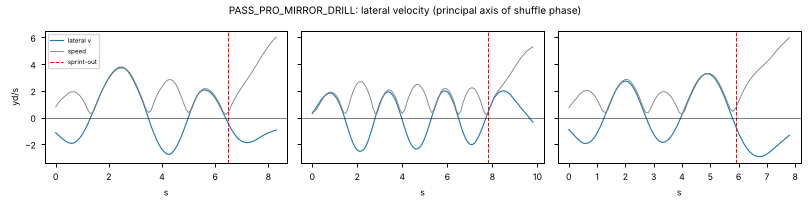
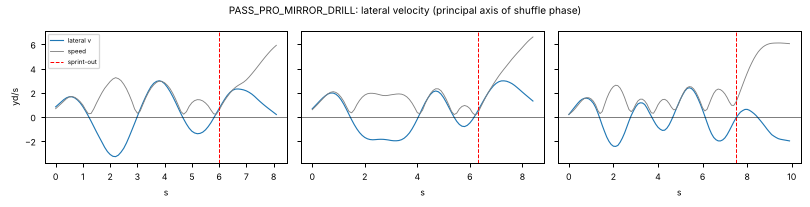
EDA: Combine drill coverage, kinematic quality, stopwatch validity, reliability
Claude-Session: https://claude.ai/code/session_01Fe4TxQWCxqSpLVc5WqLiae

diff --git a/scripts/eda/drill_quality.py b/scripts/eda/drill_quality.py
@@ -21,7 +21,6 @@ from pathlib import Path
 import numpy as np
 import pandas as pd
 import polars as pl
-from scipy.optimize import curve_fit
 from scipy.signal import find_peaks, savgol_filter
 
 ROOT = Path(__file__).resolve().parents[2]
@@ -598,11 +597,11 @@ def consistency_check(feat: pd.DataFrame, drills, feature="duration") -> dict:
     rng = np.random.default_rng(0)
     for _ in range(200):
         p = rng.permutation(cols)
-        h1, h2 = wide[p[: len(p) // 2]].mean(1), wide[p[len(p) // 2:]].mean(1)
-        ok = wide[p[: len(p) // 2]].notna().sum(1).ge(1) & wide[p[len(p) // 2:]].notna().sum(1).ge(1)
+        h1, h2 = wide[p[: len(p) // 2]].mean(axis=1), wide[p[len(p) // 2:]].mean(axis=1)
+        ok = wide[p[: len(p) // 2]].notna().sum(axis=1).ge(1) & wide[p[len(p) // 2:]].notna().sum(axis=1).ge(1)
         rs.append(np.corrcoef(h1[ok], h2[ok])[0, 1])
     r = float(np.nanmean(rs))
-    return {"feature": feature, "nDrills": len(cols), "nPlayers": int(wide.notna().sum(1).ge(2).sum()),
+    return {"feature": feature, "nDrills": len(cols), "nPlayers": int(wide.notna().sum(axis=1).ge(2).sum()),
             "splitHalfR": r, "spearmanBrown": 2 * r / (1 + r)}
 
 

diff --git a/docs/eda/drill_quality.md b/docs/eda/drill_quality.md
@@ -3,7 +3,7 @@
 Produced by `scripts/eda/drill_quality.py` (`PYTHONPATH=src python scripts/eda/drill_quality.py [--refresh]`, about 2 min, peak RSS 0.6 GB). It writes the per-attempt features to `data/processed/eda/attempt_features.parquet` (6,310 attempts) and every table below as a CSV in `data/processed/eda/`. Figures are in `docs/eda/fig/dq_*.png`. Groups come from `combine_results.combine_position`. Throughout, ICC means ICC(3,1) on each player's first two reps (by `attempt`), after removing flagged outlier reps.
 
 **Summary**
-- Coverage is broad but shallow. Every group has 6–13 skill drills covering at least 90% of its players in all three years. Only the 40 and one or two drills per group have a second rep: GAUNTLET (WR, TE), the DB 45° drill and LINE_DRILL (DB), PASS_RUSH_DROP (OL) and PASS_RUSH_DRILL (DL). WR route breaks, the OL mirror and wave drills, and the DB 90° and W drills are single-rep.
+- Coverage is broad but shallow. Every group has 5–12 skill drills covering at least 90% of its players in all three years. Only the 40 and one or two drills per group have a second rep: GAUNTLET (WR, TE), the DB 45° drill and LINE_DRILL (DB), PASS_RUSH_DROP (OL) and PASS_RUSH_DRILL (DL). WR route breaks, the OL mirror and wave drills, and the DB 90° and W drills are single-rep.
 - Raw kinematics are clean: `s` matches the speed derived from positions with r = 0.9994. The problems are trimming and frames. Clips start already moving and end while the player is still at speed, and the clip length changes by year for several drills (2024 DB 45° clips are half as long). The `normalize_drill` heading is set from the first 2 yd, so lateral-start drills get random axes.
 - The 40 is excellent once the start is anchored on distance. t(2→40 yd) gives r = 0.98 against the official 40, and the tracked 10–40 split matches the official forty − ten_yd_split with r = 0.98 and a bias of −0.05 s. Times measured from the start of the clip, including the 10-yd split, are poor (r = 0.47 for the 10-yd split).
 - Reliable features that the stopwatch does not explain: the shape of the 40 curve (speed at 10 yd relative to peak; distance to 90% of top speed) and the OL mirror reversal features. Route-break and DB-transition mechanics are not reliable.
@@ -129,7 +129,7 @@ Mask `dir` below 1 yd/s. This matters at plants, reversals and mirror dead point
 
 **Trimming** (`dq_dir_noise_trim.png`):
 - **Starts are triggered at motion.** 48% of clips start already moving (s0 > 0.5 yd/s). The mean number of standing frames before onset is 0.2 in the 40 and up to 7–9 in GAUNTLET/SCREEN. Onset-relative times (tTo3, tTo5, t10) therefore inherit an undefined start.
-- **Ends are cut at speed.** 97% of clips end above 50% of peak speed, and 41% have their peak in the last 3 frames, so there is no stopping phase. For OL pull, PASS_RUSH_DROP, RUN_THE_HOOP and BOX, the last frame is the peak in at least 86% of clips. `peakSpeed` there is "speed at the cut-off point", and post-drill decel cannot be measured.
+- **Ends are cut at speed.** 97% of clips end above 50% of peak speed, and 41% have their peak in the last 3 frames, so there is no stopping phase. For OL pull, PASS_RUSH_DROP, RUN_THE_HOOP, BOX and the OL mirror (because of its sprint-out), the peak falls in the last 3 frames in at least 86% of clips. `peakSpeed` there is "speed at the cut-off point", and post-drill decel cannot be measured.
 - About 4% of clips end with ≥2 frames of exactly constant velocity, i.e. extrapolated padding: 6% in 2023–24 and 0.3% in 2025.
 - **Clip length is year-dependent** (median frames or path length differs by more than 20% across years; `year_consistency.csv`):
 
@@ -205,7 +205,7 @@ These are the features most relevant to the ideas. The full table, including raw
 | DB LINE_DRILL (98) | tTo5 0.56, peakSpeed 0.40, peakAccel 0.12, duration −0.31 |
 | OL PASS_RUSH_DROP (101–105) | peakSpeed 0.52, tTo5 0.33, peakAccel 0.21, peakDecel −0.06 |
 | 3-cone / shuttle (30 / 35) | peakDecel 0.51 / 0.73, peakAccel 0.61 / 0.65, total time 0.37 / 0.53 |
-| WR routes (10–16 pairs only) | speed-out entry speed 0.74 (16 pairs), post-corner peakAccel 0.81 (15); everything else is too small to judge |
+| WR routes (10–16 pairs only) | speed-out heading-break entry speed 0.74 (16 pairs), post-corner peakAccel 0.64 (15); everything else is too small to judge |
 
 Pattern: speeds at a fixed distance and peak speeds are reliable. Onset-timed quantities (tTo3, tTo5, t10) and decel duration or distance are not. Peak accel and decel come in between (0.2–0.7).
 
@@ -280,7 +280,7 @@ Takeaways:
 
 | idea | drill-side support | reasons |
 |---|---|---|
-| **Speed Tax** (40 speed and acceleration curve) | **strong** | The 40 is tracked for 418/510 (79–88% per group, 84% of TE fall to 81%), with 2 reps for 375. It is validated against the stopwatch: t(2→40) r = 0.98; the 10–40 split matches the official to within 0.04 s. Peak speed ICC is 0.99 and the splits 0.98–0.99. The curve-shape features (t(2→10) 0.77, d90 0.71, v10/vmax 0.64) are reliable and nearly independent of forty and weight in WR/DB/OL (R² ≤ 0.31). Caveats: drop the first 2 yd (the clip start is 0.3 s before the official start); peak speed alone is largely redundant with the forty. |
+| **Speed Tax** (40 speed and acceleration curve) | **strong** | The 40 is tracked for 418/510 (79–88% per group), with 2 reps for 375. It is validated against the stopwatch: t(2→40) r = 0.98; the 10–40 split matches the official to within 0.04 s. Peak speed ICC is 0.99 and the splits 0.98–0.99. The curve-shape features (t(2→10) 0.77, d90 0.71, v10/vmax 0.64) are reliable and nearly independent of forty and weight in WR/DB/OL (R² ≤ 0.31). Caveats: drop the first 2 yd (the clip start is 0.3 s before the official start); peak speed alone is largely redundant with the forty. |
 | **DL burst** | **ok (40-based) / weak (skill drills)** | The 40's acceleration features are reliable, but for DL they are largely forty + weight (R² 0.38–0.63). PASS_RUSH_DRILL has 2 reps for 100, but its onset-based burst (tTo3, tTo5, peakAccel) has ICC 0.10–0.20 because clip starts are triggered inconsistently. Its peak speed (0.75) is forty-redundant (R² 0.57). FRONT_START_WAVE reversal features are unreliable (≤ 0.38). A distance-anchored burst from the 40, t(2→10), is the usable signal. |
 | **Mirror Image** (OL) | **ok** | PASS_PRO_MIRROR covers 121/121 OL in all years but has 1 rep. Within-attempt split-half, after removing tempo, is 0.64–0.84 for dead time, peak lateral decel, lateral peak speed and overshoot. These are close to orthogonal to forty, 3-cone, shuttle, weight and NGS (\|r\| ≤ 0.25). Caveats: no leader is tracked, so true reaction latency cannot be measured, only the player's own reversal mechanics. Tempo explains much of the variance (r ≈ ±0.7) and consecutive players share it (autocorr 0.3). Agreement with the 5-yd wave is about 0, so test-retest across days is unproven. Requires the PCA lateral axis and year centring. |
 | **Brake Check** (WR breaks, DB 90°, W) | **weak** | Coverage is excellent (96–107 WR per route, 121–122 DB), but routes are single-rep (3–17 pairs). Break mechanics do not generalise across routes (alpha 0.02–0.34 for min speed, speed retained, decel, COD time); only entry speed and accel aggregate (alpha about 0.6). The repo's `detect_cuts` misses most route breaks, and the slant clip is trimmed short in 2025. The one replicated break, the GAUNTLET end turn, is moderately reliable (0.57–0.67) but is not a route break. DB break features have parallel-form r ≈ 0. Best option: a route-composite "entry speed / accel" score, which is closer to speed than to braking skill. |
